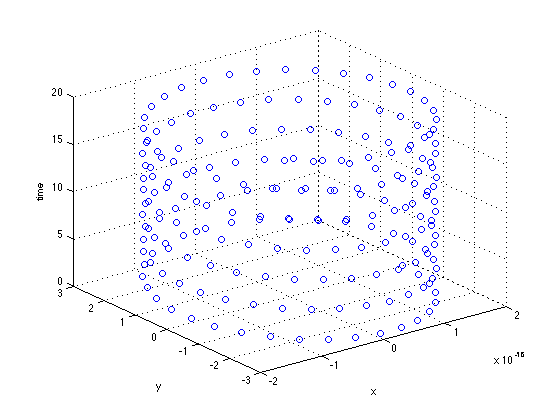
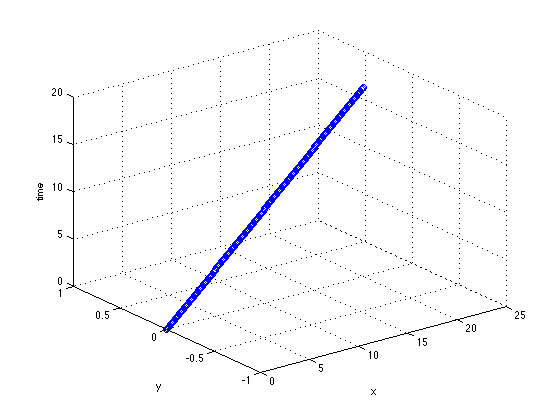
...

diff --git a/Fall2012/ELEC5530_Robots/html/HW3.html b/Fall2012/ELEC5530_Robots/html/HW3.html
@@ -6,7 +6,7 @@
    <!--
 This HTML was auto-generated from MATLAB code.
 To make changes, update the MATLAB code and republish this document.
-      --><title>HW3</title><meta name="generator" content="MATLAB 7.12"><link rel="schema.DC" href="http://purl.org/dc/elements/1.1/"><meta name="DC.date" content="2012-09-04"><meta name="DC.source" content="HW3.m"><style type="text/css">
+      --><title>HW3</title><meta name="generator" content="MATLAB 7.12"><link rel="schema.DC" href="http://purl.org/dc/elements/1.1/"><meta name="DC.date" content="2012-09-05"><meta name="DC.source" content="HW3.m"><style type="text/css">
 
 body {
   background-color: white;
@@ -62,66 +62,61 @@ p.footer {
   color: gray;
 }
 
-  </style></head><body><div class="content"><h2>Contents</h2><div><ul><li><a href="#1">HW 3, Problem 1</a></li><li><a href="#2">Declare Constants</a></li><li><a href="#3">Run through six different scenarios where the wheel velocities vary.</a></li><li><a href="#4">Dr. Roppel's Original Code (To Be Removed)</a></li></ul></div><h2>HW 3, Problem 1<a name="1"></a></h2><p>ELEC 5530 - Thaddeus Roppel 2012/09/04 Markus Kreitzer, Levi Smolin, Ray Preston</p><pre class="codeinput">clear <span class="string">all</span>;
+  </style></head><body><div class="content"><h2>Contents</h2><div><ul><li><a href="#1">HW 3, Problem 1</a></li><li><a href="#2">Declare Constants</a></li><li><a href="#3">Run through six different scenarios where the wheel velocities vary.</a></li></ul></div><h2>HW 3, Problem 1<a name="1"></a></h2><p>ELEC 5530 - Thaddeus Roppel 2012/09/04 Markus Kreitzer, Levi Smolin, Ray Preston</p><pre class="codeinput">clear <span class="string">all</span>;
 clc;
-</pre><h2>Declare Constants<a name="2"></a></h2><pre class="codeinput">Zeta_I0         = [0;0;0];  <span class="comment">% Initial position</span>
-r_w             = 1;    <span class="comment">% wheel radius</span>
+</pre><h2>Declare Constants<a name="2"></a></h2><pre class="codeinput">r             = 1;    <span class="comment">% wheel radius</span>
 l               = 1;    <span class="comment">% half the vehicle wheelbase</span>
-theta           = pi/2;
+theta           = 0;    <span class="comment">% start theta at zero</span>
+phi_dot_left       = 1;   <span class="comment">%wheel 2 (left wheel) angular rate (phi2-dot)</span>
+<span class="comment">%phi_dot_right       = 2;   %wheel 1 (right wheel) angular rate (phi1-dot)</span>
 
-R_inv_theta     = [ cos(theta),     -sin(theta),    0;
+timeEnd             = 20;   <span class="comment">%run the simulation for 20 seconds</span>
+timeDiv             = 0.1;  <span class="comment">%split the simulation into 0.1 seconds</span>
+
+timeSteps           = (timeEnd/timeDiv)+1;  <span class="comment">%The number of steps the simulation will have</span>
+
+Zeta_I         = zeros(3,timeSteps);  <span class="comment">% Initial position</span>
+</pre><h2>Run through six different scenarios where the wheel velocities vary.<a name="3"></a></h2><pre class="codeinput">scenarios       = [-3,-2,-1,0,1,2,3];
+<span class="keyword">for</span> phi_dot_right   = scenarios
+
+    theta=0;
+    Zeta_I         = zeros(3,timeSteps);  <span class="comment">% Initial position</span>
+
+<span class="keyword">for</span> i = 2:1:timeSteps
+
+    R_inv_theta     = [ cos(theta),     -sin(theta),    0;
                     sin(theta),      cos(theta),    0;
                     0,                        0,    1
                    ];
-phi_dot_1       = 1;   <span class="comment">%wheel 2 (left wheel) angular rate (phi2-dot)</span>
-</pre><h2>Run through six different scenarios where the wheel velocities vary.<a name="3"></a></h2><pre class="codeinput">scenarios       = [1 2 3 4 5 6];
-<span class="keyword">for</span> phi_dot_2   = scenarios
-    <span class="comment">% Velocity matrix of the</span>
-    Zeta_I_dot      = R_inv_theta * [ (r_w * phi_dot_1)/2 + (r_w .* phi_dot_2)/2;
-                                       0;
-                                       (r_w * phi_dot_1)/(2*l) - (r_w .* phi_dot_2)/(2*l)
-                                    ];
-    <span class="comment">% 0 to 20 seconds</span>
-    t               = 0:.1:20;
-    <span class="comment">% Matrix with positions throughout time.</span>
-    Zeta_I          = [ Zeta_I_dot(1) * cos(Zeta_I_dot(3) * t);
-                        Zeta_I_dot(2) * sin(Zeta_I_dot(3) * t);
-                        Zeta_I_dot(3) * t ];
-    x   = Zeta_I(1,:);
-    y   = Zeta_I(2,:);
-    figure
-    plot(x,y) <span class="comment">%produces a 2-D plot</span>
-    xlabel(<span class="string">'x'</span>);
-    ylabel(<span class="string">'y'</span>);
 
-    figure
-    scatter3(x,y,t) <span class="comment">%produces a 3-D trajectory plot</span>
-    xlabel(<span class="string">'x'</span>);
-    ylabel(<span class="string">'y'</span>);
-    zlabel(<span class="string">'time'</span>);
+    <span class="comment">% Velocity matrix</span>
+   Zeta_I_dot      = R_inv_theta * [ (r * phi_dot_left)/2 + (r .* phi_dot_right)/2;
+                                       0;
+                                      (r * phi_dot_left)/(2*l) - (r * phi_dot_right)/(2*l);
+                                    ];
+
+    theta=theta+(Zeta_I_dot(3)*timeDiv);
+
+    Zeta_I(:,i)=Zeta_I(:,i-1)+(Zeta_I_dot*timeDiv);
 <span class="keyword">end</span>
-</pre><img vspace="5" hspace="5" src="HW3_01.png" alt=""> <img vspace="5" hspace="5" src="HW3_02.png" alt=""> <img vspace="5" hspace="5" src="HW3_03.png" alt=""> <img vspace="5" hspace="5" src="HW3_04.png" alt=""> <img vspace="5" hspace="5" src="HW3_05.png" alt=""> <img vspace="5" hspace="5" src="HW3_06.png" alt=""> <img vspace="5" hspace="5" src="HW3_07.png" alt=""> <img vspace="5" hspace="5" src="HW3_08.png" alt=""> <img vspace="5" hspace="5" src="HW3_09.png" alt=""> <img vspace="5" hspace="5" src="HW3_10.png" alt=""> <img vspace="5" hspace="5" src="HW3_11.png" alt=""> <img vspace="5" hspace="5" src="HW3_12.png" alt=""> <h2>Dr. Roppel's Original Code (To Be Removed)<a name="4"></a></h2><pre class="codeinput"><span class="comment">%simulation of trajectory for the case in which</span>
-<span class="comment">%both wheels are turning at a constant rate.</span>
-r   = 1; <span class="comment">%wheel radius</span>
-c2  = 1; <span class="comment">%wheel 2 (left wheel) angular rate (phi2-dot)</span>
-a   = 2; <span class="comment">%ratio of wheel 1 (right wheel) to wheel 2 speed</span>
-l   = 1; <span class="comment">%half the wheelbase</span>
-x0  = 0; <span class="comment">%inital global x position</span>
-y0  = 0; <span class="comment">%initial global y position</span>
-t   = 0:.1:20;
-x   = x0+l*((a+1)/(a-1))*sin((r/2/l)*(a-1)*c2*t);
-y   = y0-l*((a+1)/(a-1))*(cos((r/2/l)*(a-1)*c2*t)-1);
-figure
-plot(x,y); <span class="comment">%produces a 2-D plot</span>
+
+
+figure;
+plot(Zeta_I(1,:),Zeta_I(2,:));
 axis <span class="string">equal</span>
 xlabel(<span class="string">'x'</span>)
 ylabel(<span class="string">'y'</span>)
+
+t=0:timeDiv:timeEnd;
 figure
-scatter3(x,y,t); <span class="comment">%produces a 3-D trajectory plot</span>
+scatter3(Zeta_I(1,:),Zeta_I(2,:),t); <span class="comment">%produces a 3-D trajectory plot</span>
 xlabel(<span class="string">'x'</span>)
 ylabel(<span class="string">'y'</span>)
 zlabel(<span class="string">'time'</span>)
-</pre><img vspace="5" hspace="5" src="HW3_13.png" alt=""> <img vspace="5" hspace="5" src="HW3_14.png" alt=""> <p class="footer"><br>
+
+
+<span class="keyword">end</span>
+</pre><img vspace="5" hspace="5" src="HW3_01.png" alt=""> <img vspace="5" hspace="5" src="HW3_02.png" alt=""> <img vspace="5" hspace="5" src="HW3_03.png" alt=""> <img vspace="5" hspace="5" src="HW3_04.png" alt=""> <img vspace="5" hspace="5" src="HW3_05.png" alt=""> <img vspace="5" hspace="5" src="HW3_06.png" alt=""> <img vspace="5" hspace="5" src="HW3_07.png" alt=""> <img vspace="5" hspace="5" src="HW3_08.png" alt=""> <img vspace="5" hspace="5" src="HW3_09.png" alt=""> <img vspace="5" hspace="5" src="HW3_10.png" alt=""> <img vspace="5" hspace="5" src="HW3_11.png" alt=""> <img vspace="5" hspace="5" src="HW3_12.png" alt=""> <img vspace="5" hspace="5" src="HW3_13.png" alt=""> <img vspace="5" hspace="5" src="HW3_14.png" alt=""> <p class="footer"><br>
       Published with MATLAB&reg; 7.12<br></p></div><!--
 ##### SOURCE BEGIN #####
 %% HW 3, Problem 1 
@@ -132,67 +127,60 @@ clear all;
 clc;
 
 %% Declare Constants
-Zeta_I0         = [0;0;0];  % Initial position
-r_w             = 1;    % wheel radius
+r             = 1;    % wheel radius
 l               = 1;    % half the vehicle wheelbase
-theta           = pi/2;
+theta           = 0;    % start theta at zero
+phi_dot_left       = 1;   %wheel 2 (left wheel) angular rate (phi2-dot)
+%phi_dot_right       = 2;   %wheel 1 (right wheel) angular rate (phi1-dot)
 
-R_inv_theta     = [ cos(theta),     -sin(theta),    0;
+timeEnd             = 20;   %run the simulation for 20 seconds
+timeDiv             = 0.1;  %split the simulation into 0.1 seconds
+
+timeSteps           = (timeEnd/timeDiv)+1;  %The number of steps the simulation will have
+
+Zeta_I         = zeros(3,timeSteps);  % Initial position
+%% Run through six different scenarios where the wheel velocities vary.
+
+scenarios       = [-3,-2,-1,0,1,2,3];
+for phi_dot_right   = scenarios
+
+    theta=0;
+    Zeta_I         = zeros(3,timeSteps);  % Initial position
+
+for i = 2:1:timeSteps
+    
+    R_inv_theta     = [ cos(theta),     -sin(theta),    0;
                     sin(theta),      cos(theta),    0;
                     0,                        0,    1
                    ];
-phi_dot_1       = 1;   %wheel 2 (left wheel) angular rate (phi2-dot)
-
-%% Run through six different scenarios where the wheel velocities vary.
-scenarios       = [1 2 3 4 5 6];
-for phi_dot_2   = scenarios
-    % Velocity matrix of the 
-    Zeta_I_dot      = R_inv_theta * [ (r_w * phi_dot_1)/2 + (r_w .* phi_dot_2)/2;
+               
+    % Velocity matrix
+   Zeta_I_dot      = R_inv_theta * [ (r * phi_dot_left)/2 + (r .* phi_dot_right)/2;
                                        0;
-                                       (r_w * phi_dot_1)/(2*l) - (r_w .* phi_dot_2)/(2*l)
+                                      (r * phi_dot_left)/(2*l) - (r * phi_dot_right)/(2*l); 
                                     ];
-    % 0 to 20 seconds
-    t               = 0:.1:20;
-    % Matrix with positions throughout time.
-    Zeta_I          = [ Zeta_I_dot(1) * cos(Zeta_I_dot(3) * t);
-                        Zeta_I_dot(2) * sin(Zeta_I_dot(3) * t);
-                        Zeta_I_dot(3) * t ];
-    x   = Zeta_I(1,:);
-    y   = Zeta_I(2,:);
-    figure
-    plot(x,y) %produces a 2-D plot
-    xlabel('x');
-    ylabel('y');
     
-    figure
-    scatter3(x,y,t) %produces a 3-D trajectory plot
-    xlabel('x');
-    ylabel('y');
-    zlabel('time');
+    theta=theta+(Zeta_I_dot(3)*timeDiv);
+    
+    Zeta_I(:,i)=Zeta_I(:,i-1)+(Zeta_I_dot*timeDiv);
 end
 
-%% Dr. Roppel's Original Code (To Be Removed)
-%simulation of trajectory for the case in which
-%both wheels are turning at a constant rate.
-r   = 1; %wheel radius
-c2  = 1; %wheel 2 (left wheel) angular rate (phi2-dot)
-a   = 2; %ratio of wheel 1 (right wheel) to wheel 2 speed
-l   = 1; %half the wheelbase
-x0  = 0; %inital global x position
-y0  = 0; %initial global y position
-t   = 0:.1:20;
-x   = x0+l*((a+1)/(a-1))*sin((r/2/l)*(a-1)*c2*t);
-y   = y0-l*((a+1)/(a-1))*(cos((r/2/l)*(a-1)*c2*t)-1);
-figure
-plot(x,y); %produces a 2-D plot
+
+figure;
+plot(Zeta_I(1,:),Zeta_I(2,:));
 axis equal
 xlabel('x')
 ylabel('y')
+
+t=0:timeDiv:timeEnd;
 figure
-scatter3(x,y,t); %produces a 3-D trajectory plot
+scatter3(Zeta_I(1,:),Zeta_I(2,:),t); %produces a 3-D trajectory plot
 xlabel('x')
 ylabel('y')
 zlabel('time')
+
+
+end
 
 ##### SOURCE END #####
 --></body></html>

diff --git a/Fall2012/ELEC5530_Robots/HW3.m b/Fall2012/ELEC5530_Robots/HW3.m
@@ -6,43 +6,57 @@ clear all;
 clc;
 
 %% Declare Constants
-Zeta_I0         = [0;0;0];  % Initial position
 r             = 1;    % wheel radius
 l               = 1;    % half the vehicle wheelbase
-theta           = pi/2;
-% theta           = 0:0.1:2*pi;
-R_inv_theta     = [ cos(theta),     -sin(theta),    0;
+theta           = 0;    % start theta at zero
+phi_dot_left       = 1;   %wheel 2 (left wheel) angular rate (phi2-dot)
+%phi_dot_right       = 2;   %wheel 1 (right wheel) angular rate (phi1-dot)
+
+timeEnd             = 20;   %run the simulation for 20 seconds
+timeDiv             = 0.1;  %split the simulation into 0.1 seconds
+
+timeSteps           = (timeEnd/timeDiv)+1;  %The number of steps the simulation will have
+
+Zeta_I         = zeros(3,timeSteps);  % Initial position
+%% Run through six different scenarios where the wheel velocities vary.
+
+scenarios       = [-3,-2,-1,0,1,2,3];
+for phi_dot_right   = scenarios
+
+    theta=0;
+    Zeta_I         = zeros(3,timeSteps);  % Initial position
+
+for i = 2:1:timeSteps
+    
+    R_inv_theta     = [ cos(theta),     -sin(theta),    0;
                     sin(theta),      cos(theta),    0;
                     0,                        0,    1
                    ];
-phi_dot_1       = 1;   %wheel 2 (left wheel) angular rate (phi2-dot)
-
-%% Run through six different scenarios where the wheel velocities vary.
-scenarios       = [1 2 3 4 5 6];
-for phi_dot_2   = scenarios
-    % Velocity matrix of the 
-    w_1         = (r * phi_dot_1)/(2*l);
-    w_2         = -((r .* phi_dot_2)/(2*l));
-    Zeta_I_dot      = R_inv_theta * [ (r * phi_dot_1)/2 + (r .* phi_dot_2)/2;
+               
+    % Velocity matrix
+   Zeta_I_dot      = R_inv_theta * [ (r * phi_dot_left)/2 + (r .* phi_dot_right)/2;
                                        0;
-                                       w_1 + w_2 
+                                      (r * phi_dot_left)/(2*l) - (r * phi_dot_right)/(2*l); 
                                     ];
-    % 0 to 20 seconds
-    t               = 0:.1:20;
-    % Matrix with positions throughout time.
-    Zeta_I          = [ Zeta_I_dot(1) * cos(Zeta_I_dot(3) * t);
-                        Zeta_I_dot(2) * sin(Zeta_I_dot(3) * t);
-                        Zeta_I_dot(3) * t ];
-    x   = Zeta_I(1,:);
-    y   = Zeta_I(2,:);
-    figure
-    plot(x,y) %produces a 2-D plot
-    xlabel('x');
-    ylabel('y');
     
-    figure
-    scatter3(x,y,t) %produces a 3-D trajectory plot
-    xlabel('x');
-    ylabel('y');
-    zlabel('time');
+    theta=theta+(Zeta_I_dot(3)*timeDiv);
+    
+    Zeta_I(:,i)=Zeta_I(:,i-1)+(Zeta_I_dot*timeDiv);
+end
+
+
+figure;
+plot(Zeta_I(1,:),Zeta_I(2,:));
+axis equal
+xlabel('x')
+ylabel('y')
+
+t=0:timeDiv:timeEnd;
+figure
+scatter3(Zeta_I(1,:),Zeta_I(2,:),t); %produces a 3-D trajectory plot
+xlabel('x')
+ylabel('y')
+zlabel('time')
+
+
 end
